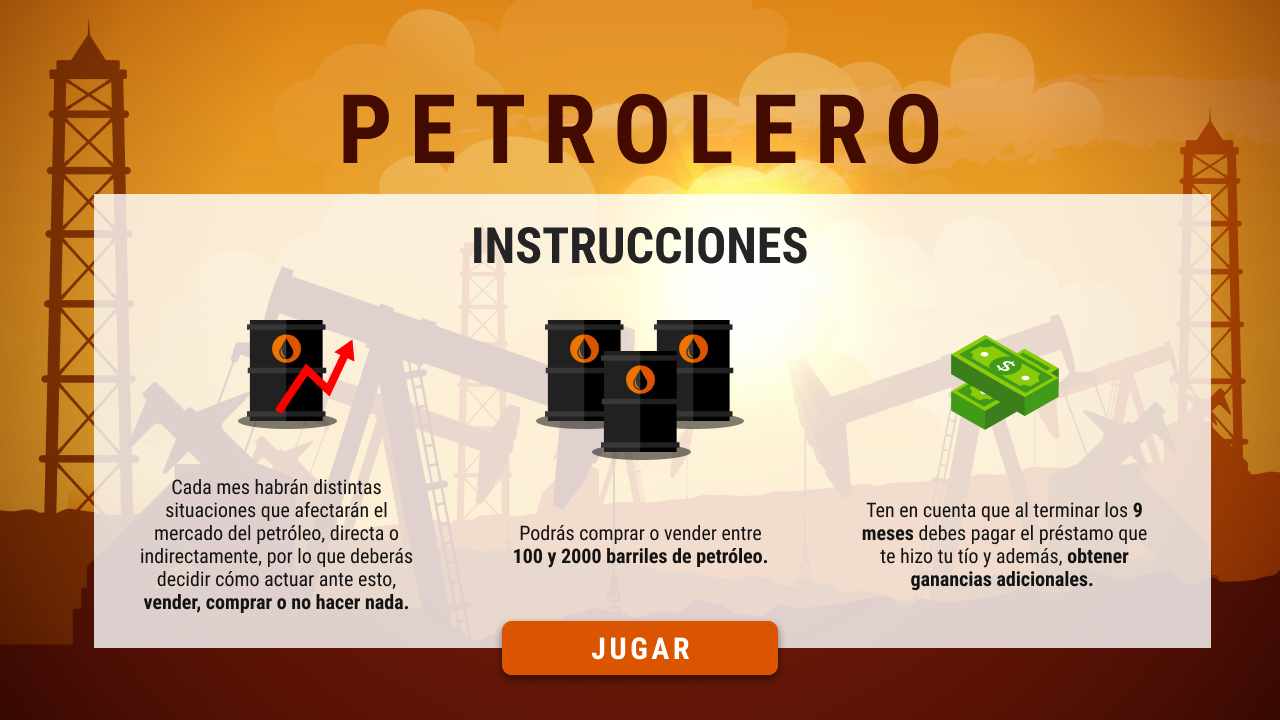
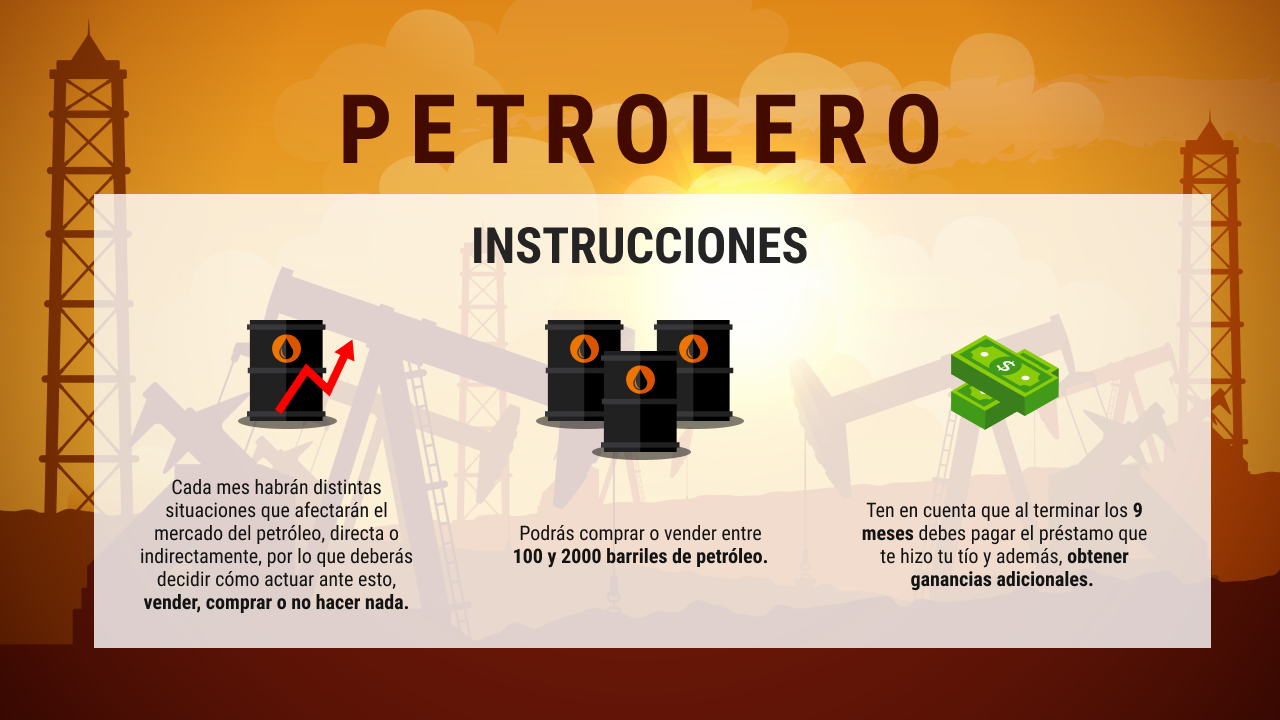
btnJugar fixed

Changed region(s): [[0.375, 0.8556, 0.625, 0.9472]]

diff --git a/scripts/Logica.js b/scripts/Logica.js
@@ -6,7 +6,7 @@ class Logica {
 
         this.precio = 1;
 
-        this.pantalla = 5;
+        this.pantalla = 6;
 
         this.inicio = app.loadImage("./img/Pantalla Inicial.png");
         this.intro = app.loadImage("./img/Introducción.png");
@@ -48,28 +48,30 @@ class Logica {
         this.btnComprarActivado = app.loadImage("./img/BotonComprarActivado.png");
         this.btnComprarDesactivado = app.loadImage("./img/BotonComprarDesactivado.png");
 
-        this.botonesActivados = [
-            this.btnCtdBarril1 = new Elemento(this.app, "./img/btn100.png", 184, 209),
-            this.btnCtdBarril2 = new Elemento(this.app, "./img/btn200.png", 324, 209),
-            this.btnCtdBarril3 = new Elemento(this.app, "./img/btn300.png", 466, 209),
-            this.btnCtdBarril4 = new Elemento(this.app, "./img/btn400.png", 607, 209),
-            this.btnCtdBarril5 = new Elemento(this.app, "./img/btn500.png", 184, 281),
-            this.btnCtdBarril6 = new Elemento(this.app, "./img/btn600.png", 324, 281),
-            this.btnCtdBarril7 = new Elemento(this.app, "./img/btn700.png", 466, 281),
-            this.btnCtdBarril8 = new Elemento(this.app, "./img/btn800.png", 607, 281),
-            this.btnCtdBarril9 = new Elemento(this.app, "./img/btn900.png", 184, 353),
-            this.btnCtdBarril10 = new Elemento(this.app, "./img/btn1000.png", 324, 353),
-            this.btnCtdBarril11 = new Elemento(this.app, "./img/btn1100.png", 466, 353),
-            this.btnCtdBarril12 = new Elemento(this.app, "./img/btn1200.png", 607, 353),
-            this.btnCtdBarril13 = new Elemento(this.app, "./img/btn1300.png", 324, 425),
-            this.btnCtdBarril14 = new Elemento(this.app, "./img/btn1400.png", 466, 425),
-            this.btnCtdBarril15 = new Elemento(this.app, "./img/btn1500.png", 607, 425),
-            this.btnCtdBarril16 = new Elemento(this.app, "./img/btn1600.png", 184, 425),
-            this.btnCtdBarril17 = new Elemento(this.app, "./img/btn1700.png", 324, 497),
-            this.btnCtdBarril18 = new Elemento(this.app, "./img/btn1800.png", 184, 497),
-            this.btnCtdBarril19 = new Elemento(this.app, "./img/btn1900.png", 466, 497),
-            this.btnCtdBarril20 = new Elemento(this.app, "./img/btn2000.png", 607, 497)
-        ];
+        this.btnJugar = new Elemento(this.app, "./img/BotonJugar.png", 640, 652),
+
+            this.botonesActivados = [
+                this.btnCtdBarril1 = new Elemento(this.app, "./img/btn100.png", 184, 209),
+                this.btnCtdBarril2 = new Elemento(this.app, "./img/btn200.png", 324, 209),
+                this.btnCtdBarril3 = new Elemento(this.app, "./img/btn300.png", 466, 209),
+                this.btnCtdBarril4 = new Elemento(this.app, "./img/btn400.png", 607, 209),
+                this.btnCtdBarril5 = new Elemento(this.app, "./img/btn500.png", 184, 281),
+                this.btnCtdBarril6 = new Elemento(this.app, "./img/btn600.png", 324, 281),
+                this.btnCtdBarril7 = new Elemento(this.app, "./img/btn700.png", 466, 281),
+                this.btnCtdBarril8 = new Elemento(this.app, "./img/btn800.png", 607, 281),
+                this.btnCtdBarril9 = new Elemento(this.app, "./img/btn900.png", 184, 353),
+                this.btnCtdBarril10 = new Elemento(this.app, "./img/btn1000.png", 324, 353),
+                this.btnCtdBarril11 = new Elemento(this.app, "./img/btn1100.png", 466, 353),
+                this.btnCtdBarril12 = new Elemento(this.app, "./img/btn1200.png", 607, 353),
+                this.btnCtdBarril13 = new Elemento(this.app, "./img/btn1300.png", 324, 425),
+                this.btnCtdBarril14 = new Elemento(this.app, "./img/btn1400.png", 466, 425),
+                this.btnCtdBarril15 = new Elemento(this.app, "./img/btn1500.png", 607, 425),
+                this.btnCtdBarril16 = new Elemento(this.app, "./img/btn1600.png", 184, 425),
+                this.btnCtdBarril17 = new Elemento(this.app, "./img/btn1700.png", 324, 497),
+                this.btnCtdBarril18 = new Elemento(this.app, "./img/btn1800.png", 184, 497),
+                this.btnCtdBarril19 = new Elemento(this.app, "./img/btn1900.png", 466, 497),
+                this.btnCtdBarril20 = new Elemento(this.app, "./img/btn2000.png", 607, 497)
+            ];
 
         this.botonesDesactivados = [
             this.btnCtdBarril1B = new Elemento(this.app, "./img/btn100B.png", 184, 209),
@@ -173,7 +175,7 @@ class Logica {
                 break;
 
             case 6:
-                if (this.app.mouseX > 502 && this.app.mouseX < 777 && this.app.mouseY > 622 && this.app.mouseY < 675) {
+                if(this.btnJugar.isSobre()){
                     this.pantalla = 7;
                     this.precioBarril += this.precioBarril * this.porcentaje;
                 }
@@ -193,7 +195,7 @@ class Logica {
             }
 
             if (this.app.mouseX > 508 && this.app.mouseX < 757 && this.app.mouseY > 632 && this.app.mouseY < 702) {
-                this.pasa = true;
+                this.pasa ++;
                 this.precioBarril += this.precioBarril * this.porcentaje;
             }
 
@@ -320,6 +322,7 @@ class Logica {
             case 6:
                 this.contar = false;
                 this.app.image(this.instrucciones, 0, 0);
+                this.btnJugar.pintar();
                 break;
 
             case 7:
